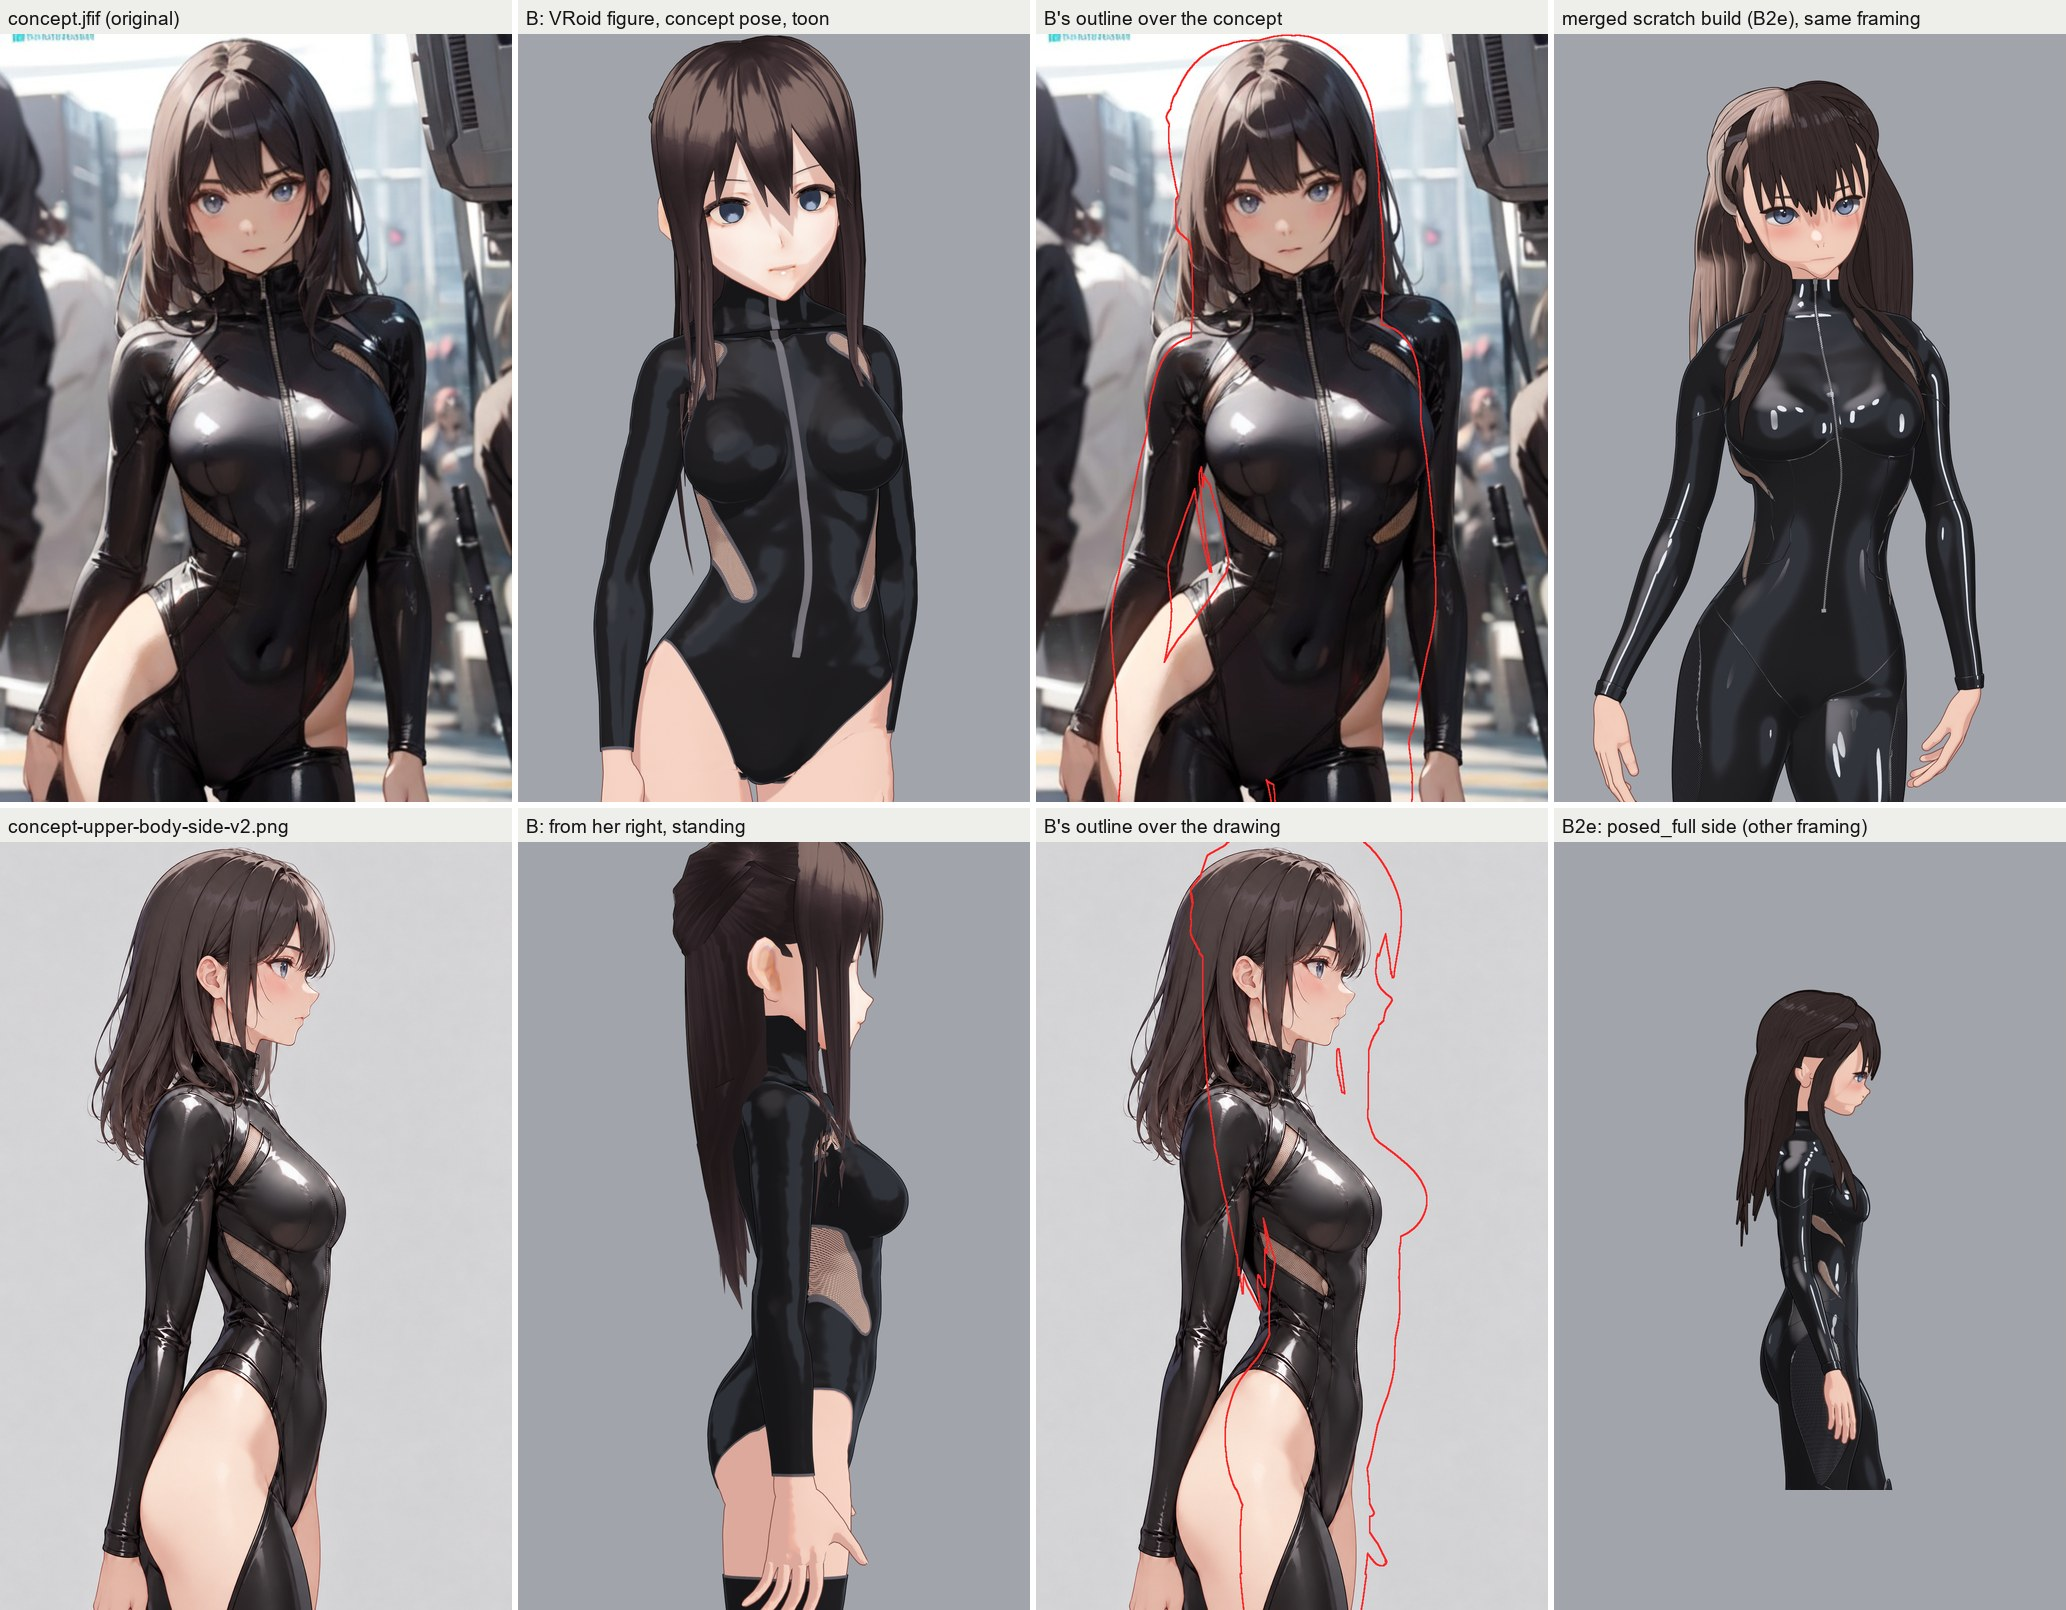
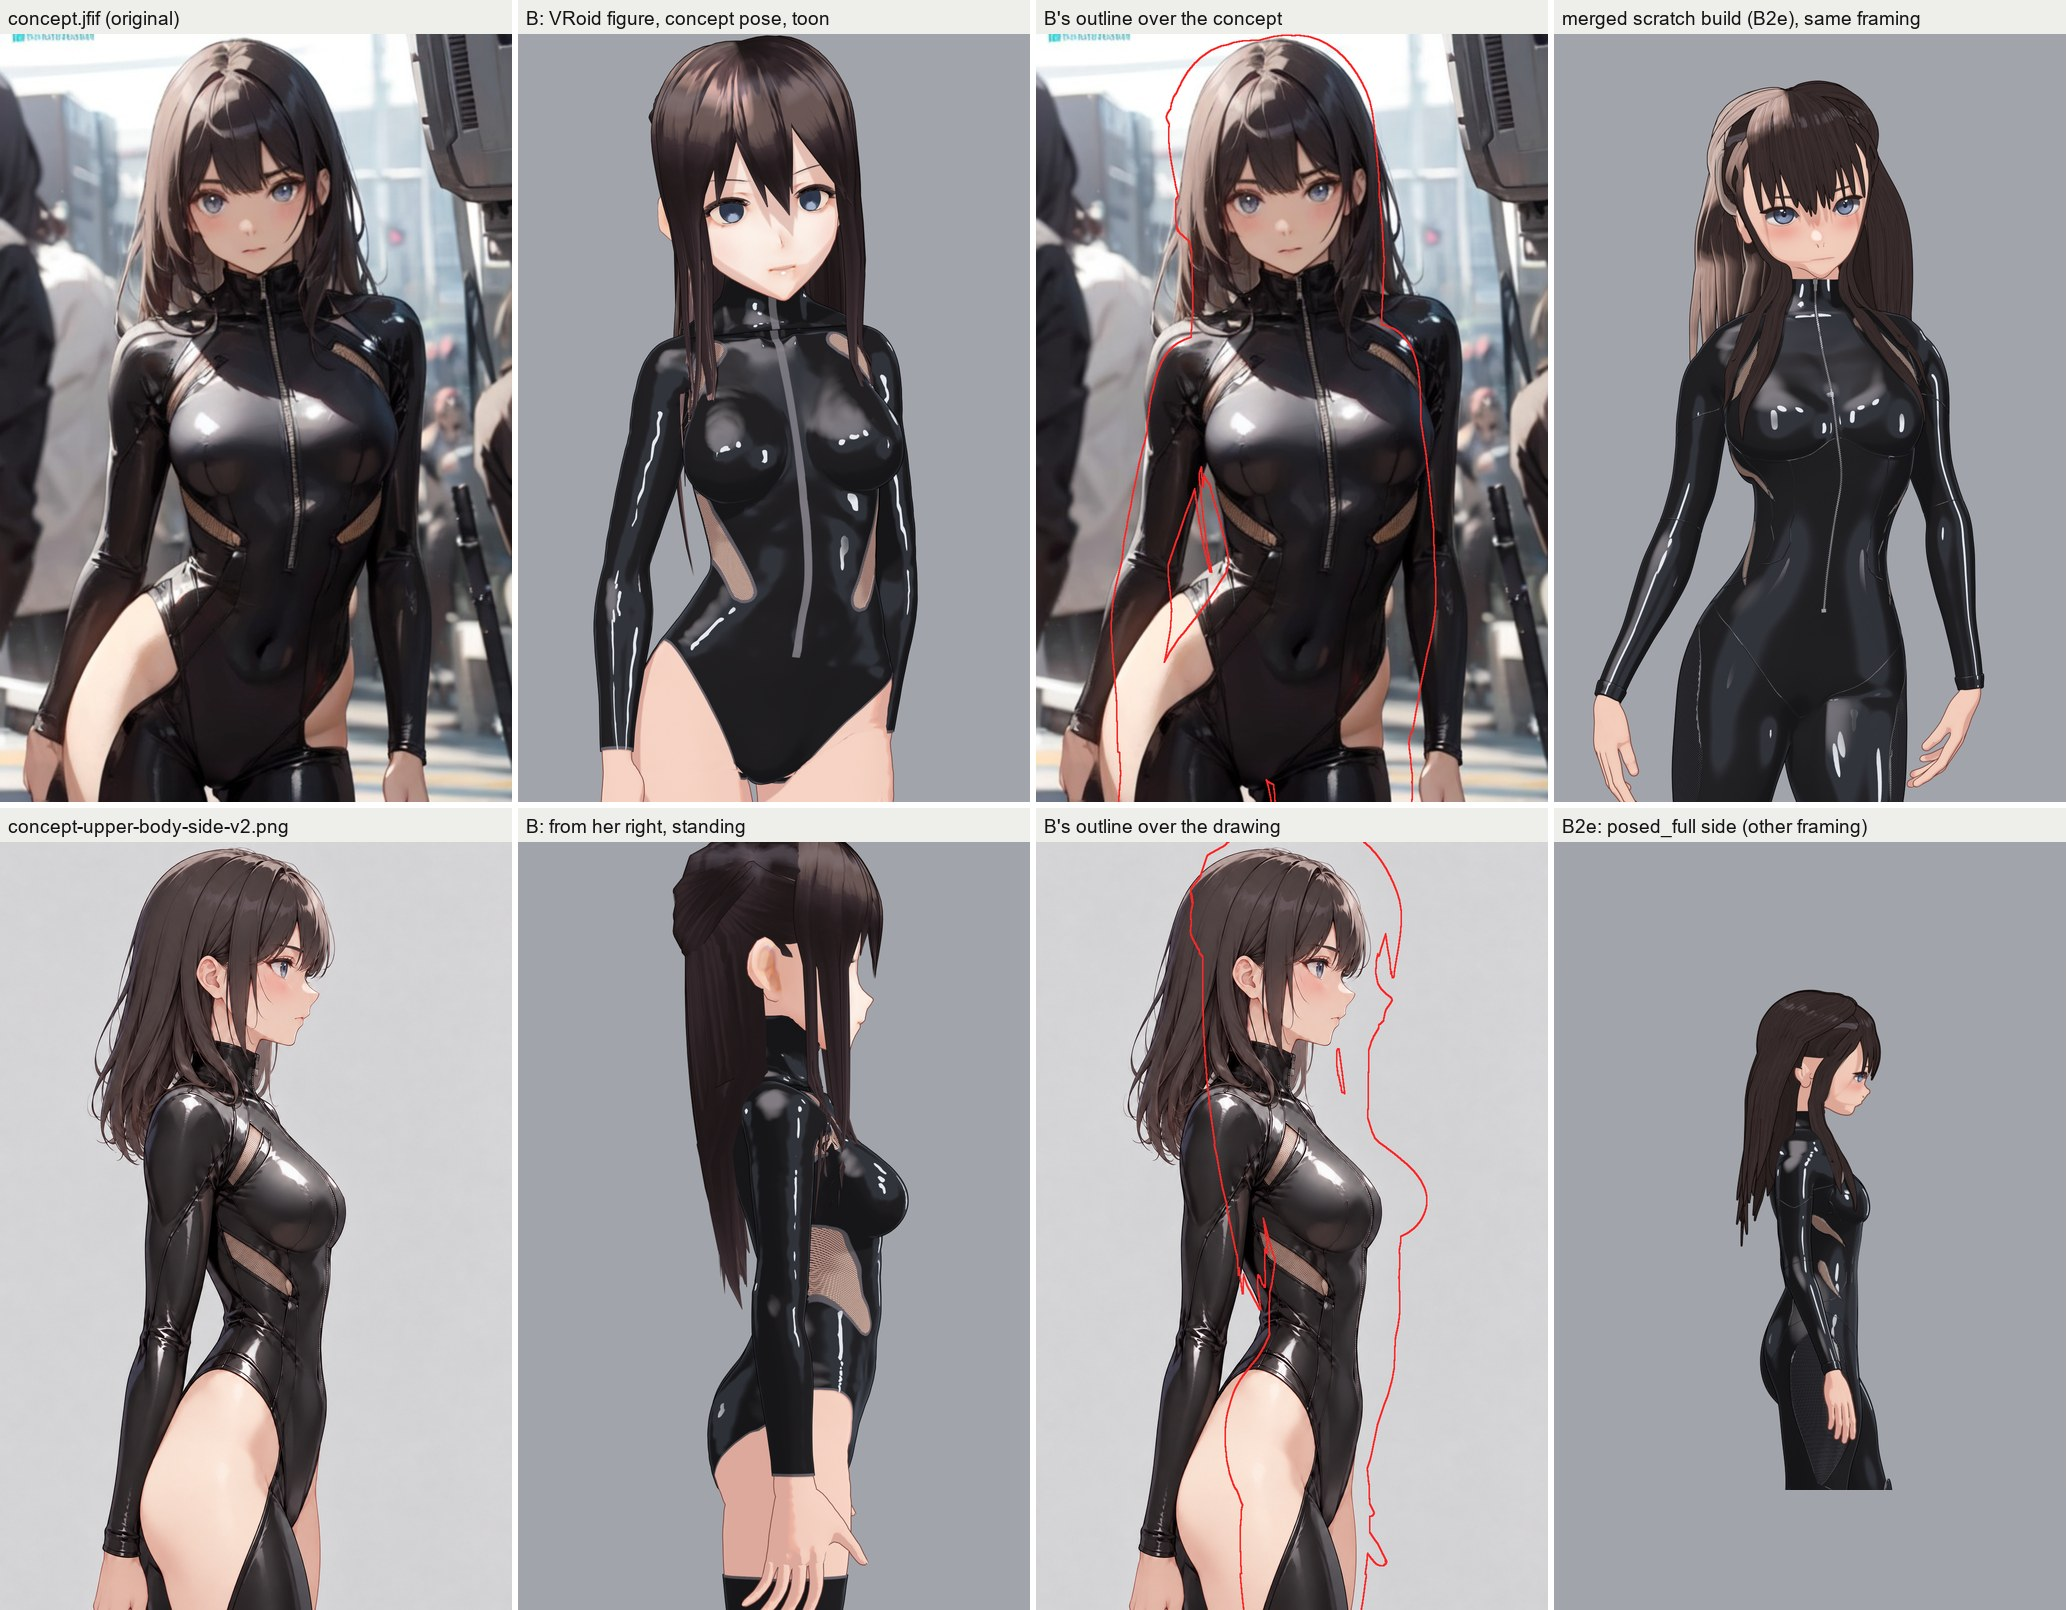
art(#33): Beatrice VRoid spike -- toonlook.prepare on B (the latex's streaks, B2e's painted hair light), every picture re-rendered

diff --git a/art/characters/Beatrice/scripts/vroid_tables.py b/art/characters/Beatrice/scripts/vroid_tables.py
@@ -62,13 +62,20 @@ _FLAT = dict(ramp=((0.0, (1.0, 1.0, 1.0)), (1.0, (1.0, 1.0, 1.0))), flat=1.0, al
 _EYE = dict(ramp=((0.0, (0.86, 0.86, 0.90)), (0.5, (1.0, 1.0, 1.0))), flat=0.85, alpha=True)
 _HAIR = dict(ramp=((0.00, (0.80, 0.78, 0.80)), (0.30, (0.84, 0.82, 0.84)), (0.42, (1.20, 1.17, 1.15)), (1.20, (1.38, 1.33, 1.30))),
              bump=0.0, rim=dict(lo=0.55, hi=0.85, blend=0.3, colour="HAIR_EDGE", amount=0.25, lit=1.0), alpha=True)
+# B's hair with B2e's PAINTED light (`toonlook.normal_lobe`, its side / world / view gates, `beatrice.LOOK_TOON` hair): the
+# outer mass on her right, seen from the front, ash to pale (the concept's); a cool gloss band (the ring) on top. Multipliers
+# of the recoloured VRoid texture (its mid ~#45363a), not of B2e's flat base
+_HAIR_LIT = dict(_HAIR, ramp=((0.00, (0.80, 0.78, 0.80)), (0.30, (0.86, 0.84, 0.86)), (0.44, (1.9, 1.75, 1.7)),
+                              (0.66, (3.6, 3.2, 3.0)), (1.05, (4.6, 4.2, 4.0))),
+                 lobe=dict(beatrice.LOOK_TOON["materials"]["hair"]["lobe"], per_lock=False),
+                 ring=dict(colour="HAIR_RING", lo=0.2, hi=0.7, amount=0.8, add=True, lit_floor=0.45))
 LOOK_VROID = dict(
     {k: v for k, v in beatrice.LOOK_TOON.items() if k in ("engine", "world", "calib", "lights", "floor")},
     materials=dict(
         face=dict(beatrice.LOOK_TOON["materials"]["face"]),
         skin=dict(beatrice.LOOK_TOON["materials"]["skin"], bump=1.0),
         eye_white=_EYE, iris=_EYE, eye_hi=_FLAT, eye_extra=_FLAT, eyeline=_FLAT, lash=_FLAT, brow=_FLAT, mouth=_FLAT,
-        hair=_HAIR, hair_back=_HAIR,
+        hair=_HAIR_LIT, hair_back=_HAIR_LIT,
         cloth=dict(ramp=((0.0, (0.70, 0.70, 0.74)), (0.40, (0.74, 0.74, 0.78)), (0.5, (1.0, 1.0, 1.0)), (1.2, (1.1, 1.1, 1.1))),
                    alpha=True),
         suit=dict(beatrice.LOOK_TOON["materials"]["suit"], alpha=True),
@@ -76,6 +83,9 @@ LOOK_VROID = dict(
         metal=dict(beatrice.LOOK_TOON["materials"]["metal"]),
     ),
     curvature=dict(materials=("suit",), smooth=6),
+    # the hair's band and its side attribute (`toonlook.ring_attr`, `toon_x` for the lobe's side gate), its normals as one mass
+    ring=dict(objects=("Vroid_Hair*",), beta=(40.0, 3.0, 3.0), jag=2.5, freq=13.0, back=170.0),
+    hair_normals=dict(weight=0.75, z=(1.42, 1.50), hang=0.8),
     outline=dict(px=1.6, exclude=("*_FaceLayers", "*_Zip*"), masks=dict(suit="suit", mesh="insert"),
                  colours=dict(face="LINE_SKIN", skin="LINE_SKIN", hair="LINE_HAIR", hair_back="LINE_HAIR", cloth="LINE_SUIT",
                               suit="LINE_SUIT", mesh="LINE_SUIT", metal="LINE_SUIT")),
@@ -264,10 +274,10 @@ FRAMES = dict(
 )
 FACE_VIEWS = (0, 30, 60, 90)
 SHOTS.update(
-    p_front=dict(cam=(0.0, -6.0, 0.85), target=(0.0, 0.0, 0.82), lens=85.0, res=(700, 1100)),
-    p_34=dict(cam=(-3.0, -5.2, 0.95), target=(0.0, 0.0, 0.82), lens=85.0, res=(700, 1100)),
-    p_side=dict(cam=(-6.0, 0.0, 0.85), target=(0.0, 0.0, 0.82), lens=85.0, res=(700, 1100)),
-    p_back=dict(cam=(0.0, 6.0, 0.85), target=(0.0, 0.0, 0.82), lens=85.0, res=(700, 1100)),
+    p_front=dict(cam=(0.0, -4.4, 0.85), target=(0.0, 0.0, 0.82), lens=85.0, res=(700, 1100)),
+    p_34=dict(cam=(-2.2, -3.81, 0.95), target=(0.0, 0.0, 0.82), lens=85.0, res=(700, 1100)),
+    p_side=dict(cam=(-4.4, 0.0, 0.85), target=(0.0, 0.0, 0.82), lens=85.0, res=(700, 1100)),
+    p_back=dict(cam=(0.0, 4.4, 0.85), target=(0.0, 0.0, 0.82), lens=85.0, res=(700, 1100)),
 )
 # the face views (B2e's `face_turn` framing: 100 mm, portrait), on the posed eyes' midpoint
 FACE_SHOT = dict(azimuths=FACE_VIEWS, dist=1.30, lens=100.0, up=0.0, back=-0.015, elev=3.0, res=(720, 900), transparent=True)
@@ -283,3 +293,6 @@ SHOTS["t_face"] = dict(cam=(-0.30, -0.74, 1.47), target=(0.0, 0.0, 1.455), lens=
 # (licence "Other", not CC0: PROVENANCE). Sendagaya Shino's is the long, straight, dark hairstyle closest to the drawings; it
 # shows what a proper long VRoid hairstyle (e.g. one the owner makes in VRoid Studio's hair editor) would give.
 WHATIF = dict(shino=dict(path="sendagaya_shino/x/Sendagaya Shino.vrm"))
+
+# the head's centre (from the head bone, rest) for the hair's band and normals
+HEAD_CENTRE = (0.0, -0.005, 0.095)

diff --git a/art/characters/Beatrice/scripts/vroid.py b/art/characters/Beatrice/scripts/vroid.py
@@ -419,6 +419,9 @@ if args.open:
     vrmbase.enable()
     if args.whatif:
         whatif_hair(args.whatif)
+    _arm = bpy.data.objects["Vroid_Armature"]
+    _c = np.asarray(_arm.matrix_world @ _arm.data.bones["J_Bip_C_Head"].head_local) + np.asarray(T.HEAD_CENTRE)
+    toonlook.prepare(T.LOOK_VROID, ring_centre=tuple(_c))   # before posing: the hair's band, side attribute and normals
     if args.pose:
         pose_b(args.pose)
     LOOK = T.LOOK_VROID

diff --git a/art/characters/Beatrice/PROVENANCE.md b/art/characters/Beatrice/PROVENANCE.md
@@ -1772,11 +1772,14 @@ driver `scripts/vroid.py` (new). `beatrice.py` is only read (its palette, `LOOK_
 - **Proportions** (`SCALES`): only the bust, 1.28 (the base's is small; both drawings draw it fuller). The VRoid body's
   slimness and leg length are kept (the owner's verdict). Height 1.63 m (the base's), not scaled.
 - **The toon look**: `toonlook.apply` with its own table `LOOK_VROID` (`beatrice.LOOK_TOON`'s engine, world, lights and floor;
-  its face, skin, latex and net specs; flat painted specs for the face's layers; a simple two-tone hair ramp). Two additive
+  its face, skin, latex and net specs; flat painted specs for the face's layers; the hair's ramp with B2e's painted light,
+  `normal_lobe` with its side / world / view gates but not per lock, a cool gloss band, the hair's normals as one mass --
+  one attempt: the effect is faint on the VRoid hair). `toonlook.prepare` runs on the opened build before posing (the
+  hair's band and side attribute, the latex's curvature for the streaks). Two additive
   paths in `toonlook.py` (defaults reproduce today's output): `spec["alpha"]` (a cut-out / see-through layer: the Principled's
   Alpha between a Transparent BSDF and the emitted colour, dithered, transparent shadows) and `outline["masks"]` (a hull
-  shown only where a point attribute is > 0, so a cut layer draws no line where it is cut away). Not ported: B2e's painted
-  hair light (`normal_lobe`, `ring`), the face's simple-head normals, the shadow proxy.
+  shown only where a point attribute is > 0, so a cut layer draws no line where it is cut away). Not ported: the face's
+  simple-head normals and shadow proxy (the VRoid face's own normals are already smooth).
 - **Posing** (`POSE_B`, `vrmbase.world_pose`, `vroid.pose_b`): the VRM skeleton posed by ABSOLUTE world rotations in
   `beatrice.POSE`'s convention, so the concept pose carries over (the arms brought down from the T-pose about Y first; the
   left thigh's inward swing reduced 8 -> 2 deg, as VRoid's legs stand closer); fingers relaxed; the standing foot put on the
@@ -1788,6 +1791,7 @@ driver `scripts/vroid.py` (new). `beatrice.py` is only read (its palette, `LOOK_
 
 ### Pictures and times
 
+Timed end to end: the build 29 s, every B / what-if picture 75 s (five Blender runs), the sheets a few seconds.
 `vroid.py --open B --pose concept --shots concept --tag P` (6 s) and `--open B --pose stand --shots
 side_v2,art_front,art_side,face,p_front,p_34,p_side,p_back --tag S` (12 s), then `python Beatrice/scripts/vroid_sheets.py`:
 `vroid_vs_concept.jpg`, `vroid_face.jpg`, `vroid_full.jpg`, `vroid_candidates.jpg`, `vroid_whatif_hair.jpg` (the what-if:
@@ -1807,10 +1811,10 @@ the RTX 3070: 0.5-1 s a shot after the first.
    smooth to the back. Shino's hair (the what-if) is smooth there but has a blunt hime fringe, not the drawn pointed one.
 3. **The side locks hide the face in profile** (`vroid_face.jpg`, the profile framing): the lengthened face-framing locks
    hang over the cheek; the drawing keeps one narrow lock in front of the ear.
-4. **No painted light on the hair**: B2e's ash-pale lit side (her right, from the front) is not ported (`vroid_vs_concept.jpg`:
-   the concept's outer hair is pale beige).
-5. **The latex is flatter than drawn** (`vroid_vs_concept.jpg`): a broad sheen and few crisp highlights; the concept's latex is
-   wet with bright streaks (B2e's is closer: its curvature-gated streaks run on a 3 M-vertex surface; here the strips light
-   a smoother, sparser body). The piping is only on the cut edges (no princess seams).
+4. **The hair's painted light is faint**: B2e's lobe is on, but the concept's ash-pale outer hair on her right barely shows
+   (`vroid_vs_concept.jpg`); it needs B2e's per-lock share, which VRoid's cards do not carry.
+5. **The latex**: wet, with crisp streaks on the rounder forms (once `toonlook.prepare` computed the latex's curvature --
+   the first pictures skipped it and the streaks were gated to nothing); still fewer and smaller highlights than the concept's
+   bust and arms, and the piping only on the cut edges (no princess seams).
 6. **A lip highlight reads as a fang** in the concept framing (the VRoid face texture's lower-lip gloss).
 7. **Hands**: VRoid's simple hands, fingers relaxed by a fixed curl; fine at full figure, plain in close-up.
